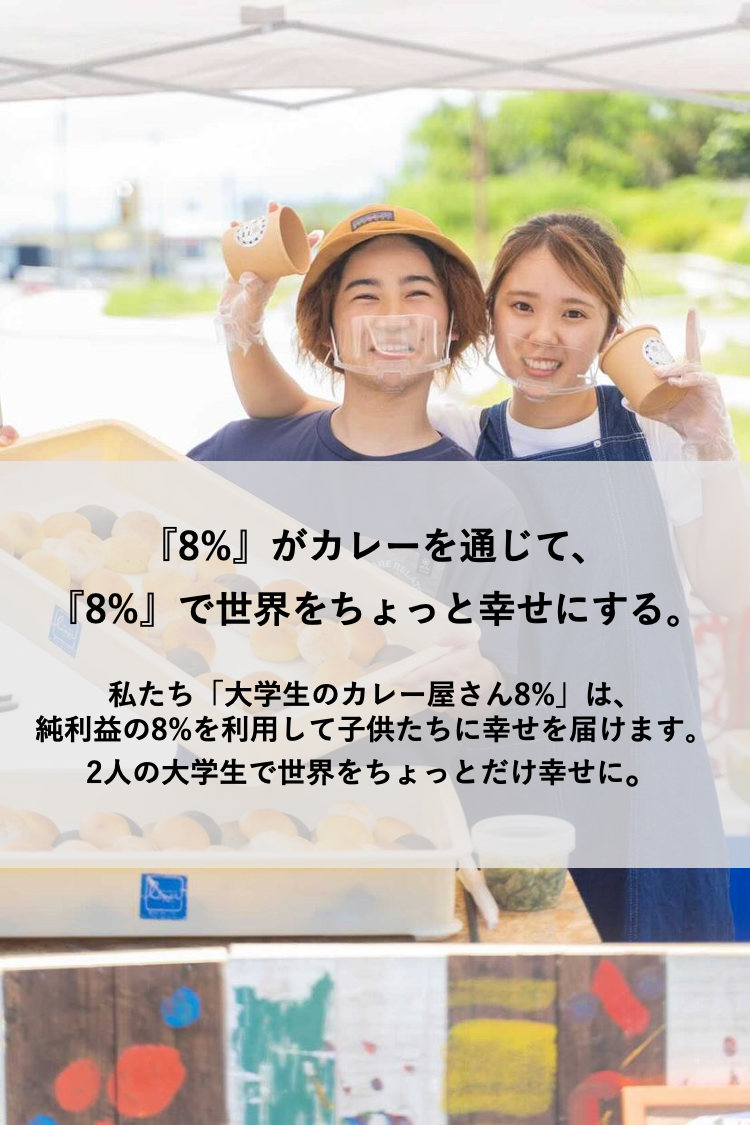
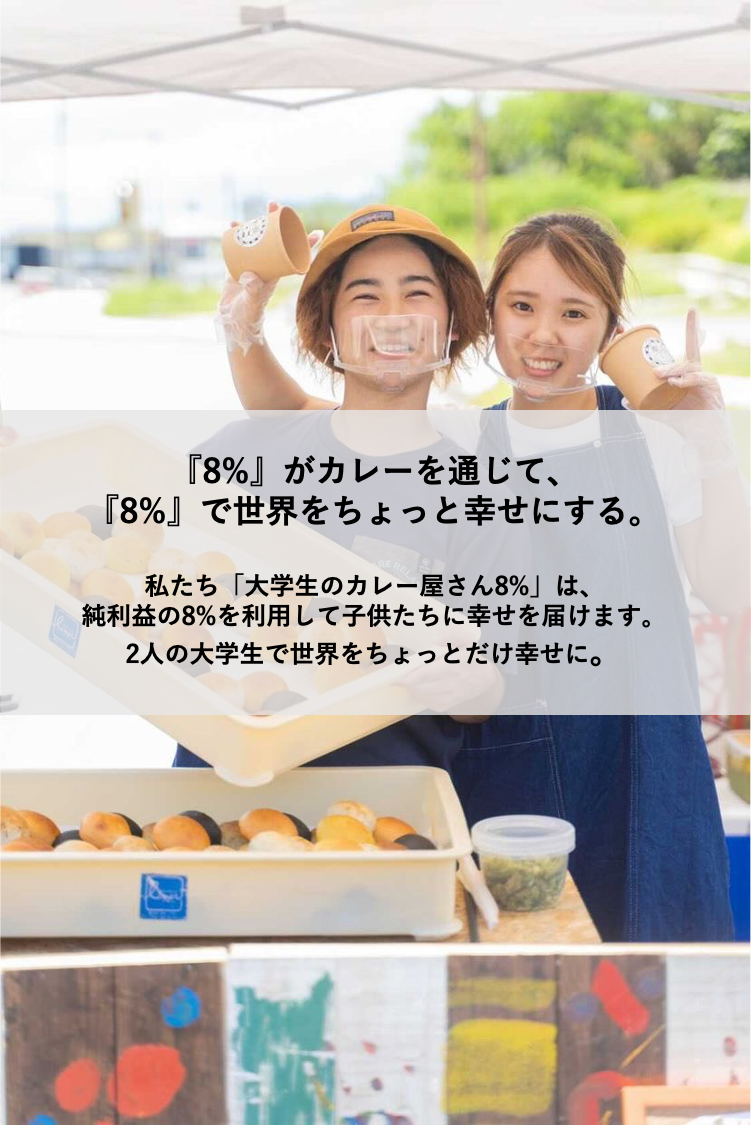
トップ画再修正

diff --git a/css/media.css b/css/media.css
@@ -1836,7 +1836,7 @@ home
 --------------------------------*/
 
 #main-visual {
-    height: 100vh;
+    height: 80vh;
     background:url("../images/top-mobile.png") ;
 	background-position: center center;
 	background-size:cover;
